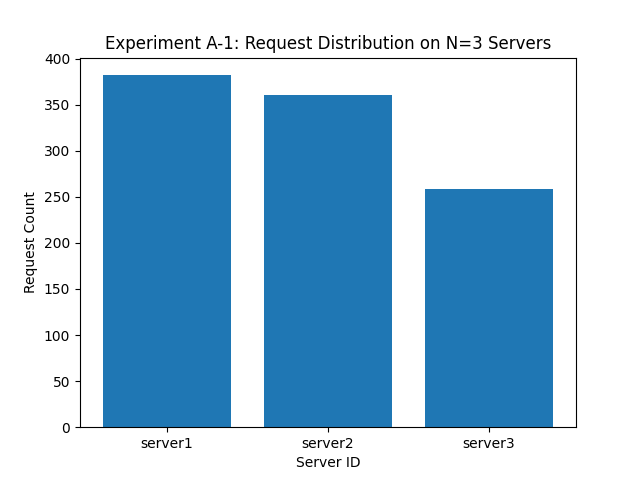
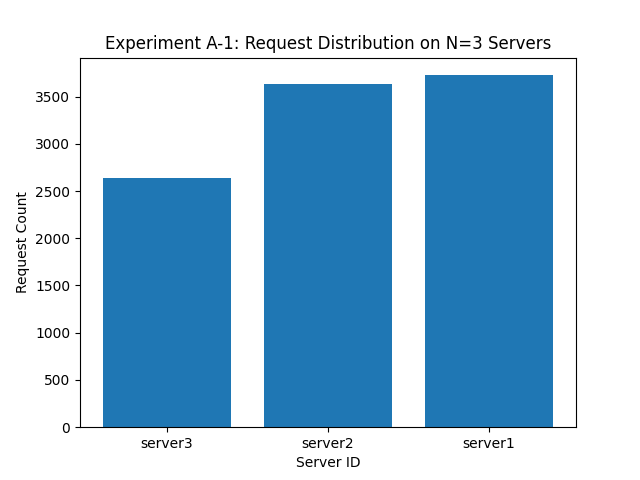
added timeout

diff --git a/Assignment-1/Task-4/analysis.py b/Assignment-1/Task-4/analysis.py
@@ -2,10 +2,12 @@ import aiohttp
 import asyncio
 import matplotlib.pyplot as plt
 
-NUM_REQUESTS = 1000
+timeout = aiohttp.ClientTimeout(total=900)
+
+NUM_REQUESTS = 10000
 
 async def send_request(server_url):
-    async with aiohttp.ClientSession() as session:
+    async with aiohttp.ClientSession(timeout=timeout) as session:
         async with session.get(server_url + '/home') as response:
             try:
                 if response.status == 200:
@@ -44,6 +46,8 @@ def plot_line_chart(data, x_label, y_label, title, path):
     y_values = list(data.values())
     plt.close()
     plt.plot(x_values, y_values, marker='o')
+    for i, (x, y) in enumerate(zip(x_values, y_values)):
+        plt.text(x, y, f'({x}, {y})', ha='right', va='bottom')  
     plt.title(title)
     plt.xlabel(x_label)
     plt.ylabel(y_label)
@@ -57,7 +61,7 @@ async def main():
     plot_bar_chart(response_counts_a1, 'Experiment A-1: Request Distribution on N=3 Servers', './results/A1.png')
 
     # A-2: Increment N from 2 to 6 and launch 10000 requests on each increment
-    async with aiohttp.ClientSession() as session:
+    async with aiohttp.ClientSession(timeout=timeout) as session:
         async with session.delete(server_url + '/rm', json = {"n": 1, "hostnames": []}) as response:
             print(await response.read())
     response_counts_a2 = {}
@@ -66,7 +70,7 @@ async def main():
         response_counts = await send_requests(server_url, NUM_REQUESTS)
         average_load = sum(response_counts.values()) / n
         response_counts_a2[n] = average_load
-        async with aiohttp.ClientSession() as session:
+        async with aiohttp.ClientSession(timeout=timeout) as session:
             async with session.post(server_url + '/add', json = {"n": 1, "hostnames": []}) as response:
                 print(await response.read())
     plot_line_chart(response_counts_a2, 'Number of Servers (N)', 'Average Load', 'Experiment A-2: Scalability of Load Balancer', './results/A2.png')
